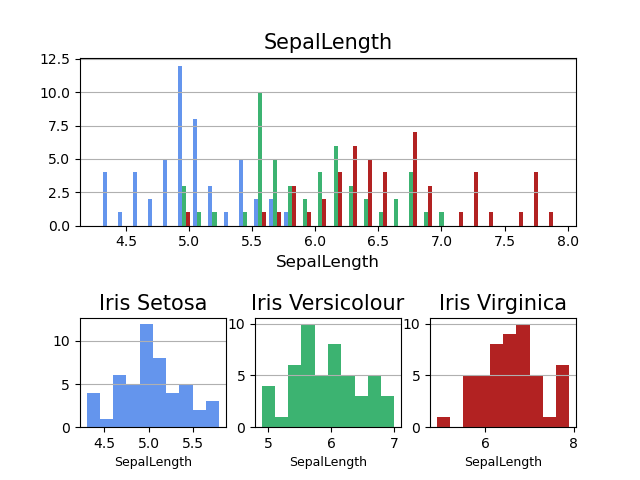
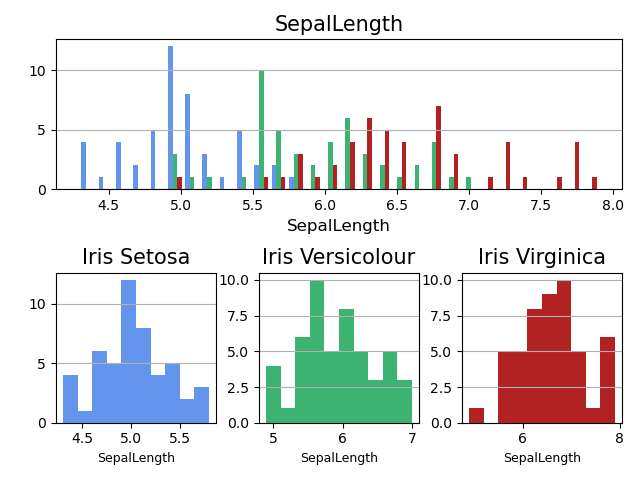
Minor changes and code added to invesigate mean petal lenth vs SD of petal lenth

diff --git a/analysis.py b/analysis.py
@@ -3,6 +3,7 @@
 # Data analysis of the Fisher's Iris data set
 
 #improting libaries
+from statistics import mean, stdev
 import pandas as pd
 import numpy as np
 import matplotlib.pyplot as plt
@@ -18,7 +19,7 @@ import matplotlib.pyplot as plt
 #      -- Iris Versicolour
 #      -- Iris Virginica
 irisData =  pd.read_csv('data\iris.data', names=['SepalLength', 'SepalWidth', 'PetalLength', 'PetalWidth', 'FlowerClass'])
-#print(irisData.head())
+print(irisData.head())
 
 # Sererating Flowers into subsets of data for individual analysis
 irisSetosa = irisData[irisData['FlowerClass'] == "Iris-setosa"]
@@ -61,15 +62,15 @@ def variableHist(xAxis):
         plt.grid(axis = 'y')
 
     # Iris Setosa subplot
-    plt.subplot(3, 3, 7)
+    plt.subplot(2, 3, 4)
     subvariableHist(irisSetosa, xAxis, "cornflowerblue", "Iris Setosa")
 
     # Iris Versicolour subplot
-    plt.subplot(3, 3, 8)
+    plt.subplot(2, 3, 5)
     subvariableHist(irisVersicolour, xAxis, "mediumseagreen", "Iris Versicolour")
 
     # Iris Virginica subplot
-    plt.subplot(3, 3, 9)
+    plt.subplot(2, 3, 6)
     subvariableHist(irisVirginica, xAxis, "firebrick", "Iris Virginica")
 
     # outputting the histograms to a saved .png
@@ -103,15 +104,15 @@ def subplotter(xAxis, yAxis):
         plt.ylabel(yAxis, size = 9, color = 'black')
 
     # Iris Setosa subplot
-    plt.subplot(3, 3, 7)
+    plt.subplot(2, 3, 4)
     subplotterbot(irisSetosa, xAxis, yAxis, "cornflowerblue", "Iris Setosa")
 
     # Iris Versicolour subplot
-    plt.subplot(3, 3, 8)
+    plt.subplot(2, 3, 5)
     subplotterbot(irisVersicolour, xAxis, yAxis, "mediumseagreen", "Iris Versicolour")
 
     # Iris Virginica subplot
-    plt.subplot(3, 3, 9)
+    plt.subplot(2, 3, 6)
     subplotterbot(irisVirginica, xAxis, yAxis, "firebrick", "Iris Virginica")
 
     # Outputting the Scatter plots and saving as a .png
@@ -122,25 +123,25 @@ def subplotter(xAxis, yAxis):
 ###################### MAIN CODE ######################
 # 1. 
 # Creating a text summary for each variable
-#textOutput(irisData.describe(), "Summary of Iris Data set")
-#textOutput(irisSetosa.describe(), "Summary of Iris Setosa subset")
-#textOutput(irisVersicolour.describe(), "Summary of Iris Versicolour subset")
-#textOutput(irisVirginica.describe(), "Summary of Iris Virginica subset")
+textOutput(irisData.describe(), "Summary of Iris Data set")
+textOutput(irisSetosa.describe(), "Summary of Iris Setosa subset")
+textOutput(irisVersicolour.describe(), "Summary of Iris Versicolour subset")
+textOutput(irisVirginica.describe(), "Summary of Iris Virginica subset")
 
 # 2.
 # Creating histograms for each variable
-#for col in irisData.columns:
-#    variableHist(col)
+for col in irisData.columns:
+    variableHist(col)
 
 # 3.
 # Creating scatter potls for each pair of variables
-#subplotter("SepalLength", "SepalWidth")
+subplotter("SepalLength", "SepalWidth")
 
-#subplotter("PetalLength", "PetalWidth")
+subplotter("PetalLength", "PetalWidth")
 
-#subplotter("SepalLength", "PetalWidth")
+subplotter("SepalLength", "PetalWidth")
 
-#subplotter("PetalLength", "SepalWidth")
+subplotter("PetalLength", "SepalWidth")
 
 # 4. Extra
 # Analysis of the relationship between petal dimetions and the sepal relationships
@@ -158,11 +159,41 @@ irisVersicolourSepalRatio = irisVersicolour["SepalLength"] / irisVersicolour["Se
 irisVirginicaPetalRatio = irisVirginica["PetalLength"] / irisVirginica["PetalWidth"]
 irisVirginicaSepalRatio = irisVirginica["SepalLength"] / irisVirginica["SepalWidth"]
 
+z = np.polyfit(irisDataPetalRatio, irisDataSepalRatio, 1)
+p = np.poly1d(z)
+plt.plot(irisDataPetalRatio,p(irisDataPetalRatio), color= "black")
+
 plt.scatter(irisSetosaPetalRatio, irisSetosaSepalRatio, color="cornflowerblue")
+z = np.polyfit(irisSetosaPetalRatio, irisSetosaSepalRatio, 1)
+p = np.poly1d(z)
+plt.plot(irisSetosaPetalRatio,p(irisSetosaPetalRatio), color="cornflowerblue")
+
 plt.scatter(irisVersicolourPetalRatio, irisVersicolourSepalRatio, color= "mediumseagreen")
+z = np.polyfit(irisVersicolourPetalRatio, irisVersicolourSepalRatio, 1)
+p = np.poly1d(z)
+plt.plot(irisVersicolourPetalRatio,p(irisVersicolourPetalRatio), color="mediumseagreen")
+
 plt.scatter(irisVirginicaPetalRatio, irisVirginicaSepalRatio, color= "firebrick")
+z = np.polyfit(irisVirginicaPetalRatio, irisVirginicaSepalRatio, 1)
+p = np.poly1d(z)
+plt.plot(irisVirginicaPetalRatio,p(irisVirginicaPetalRatio), color="firebrick")
 
 plt.title("PetalRatio Vs SepalRatio", size = 20, color = 'black')
 plt.xlabel("PetalRatio", size = 12, color = 'black')
 plt.ylabel("SepalRatio", size = 12, color = 'black')
+plt.show()
+
+# 5. Extra
+# Analyis the relationship between the mean petal lenth and the standard deviation
+irisSetosaMean = mean(irisSetosa["PetalLength"])
+irisVersicolourMean = mean(irisVersicolour["PetalLength"])
+irisVirginicaMean = mean(irisVirginica["PetalLength"])
+
+irisSetosaSD = stdev(irisSetosa["PetalLength"])
+irisVersicolourSD = stdev(irisVersicolour["PetalLength"])
+irisVirginicaSD = stdev(irisVirginica["PetalLength"])
+
+plt.scatter(irisSetosaMean, irisSetosaSD, color="cornflowerblue")
+plt.scatter(irisVersicolourMean, irisVersicolourSD, color= "mediumseagreen")
+plt.scatter(irisVirginicaMean, irisVirginicaSD, color= "firebrick")
 plt.show()
